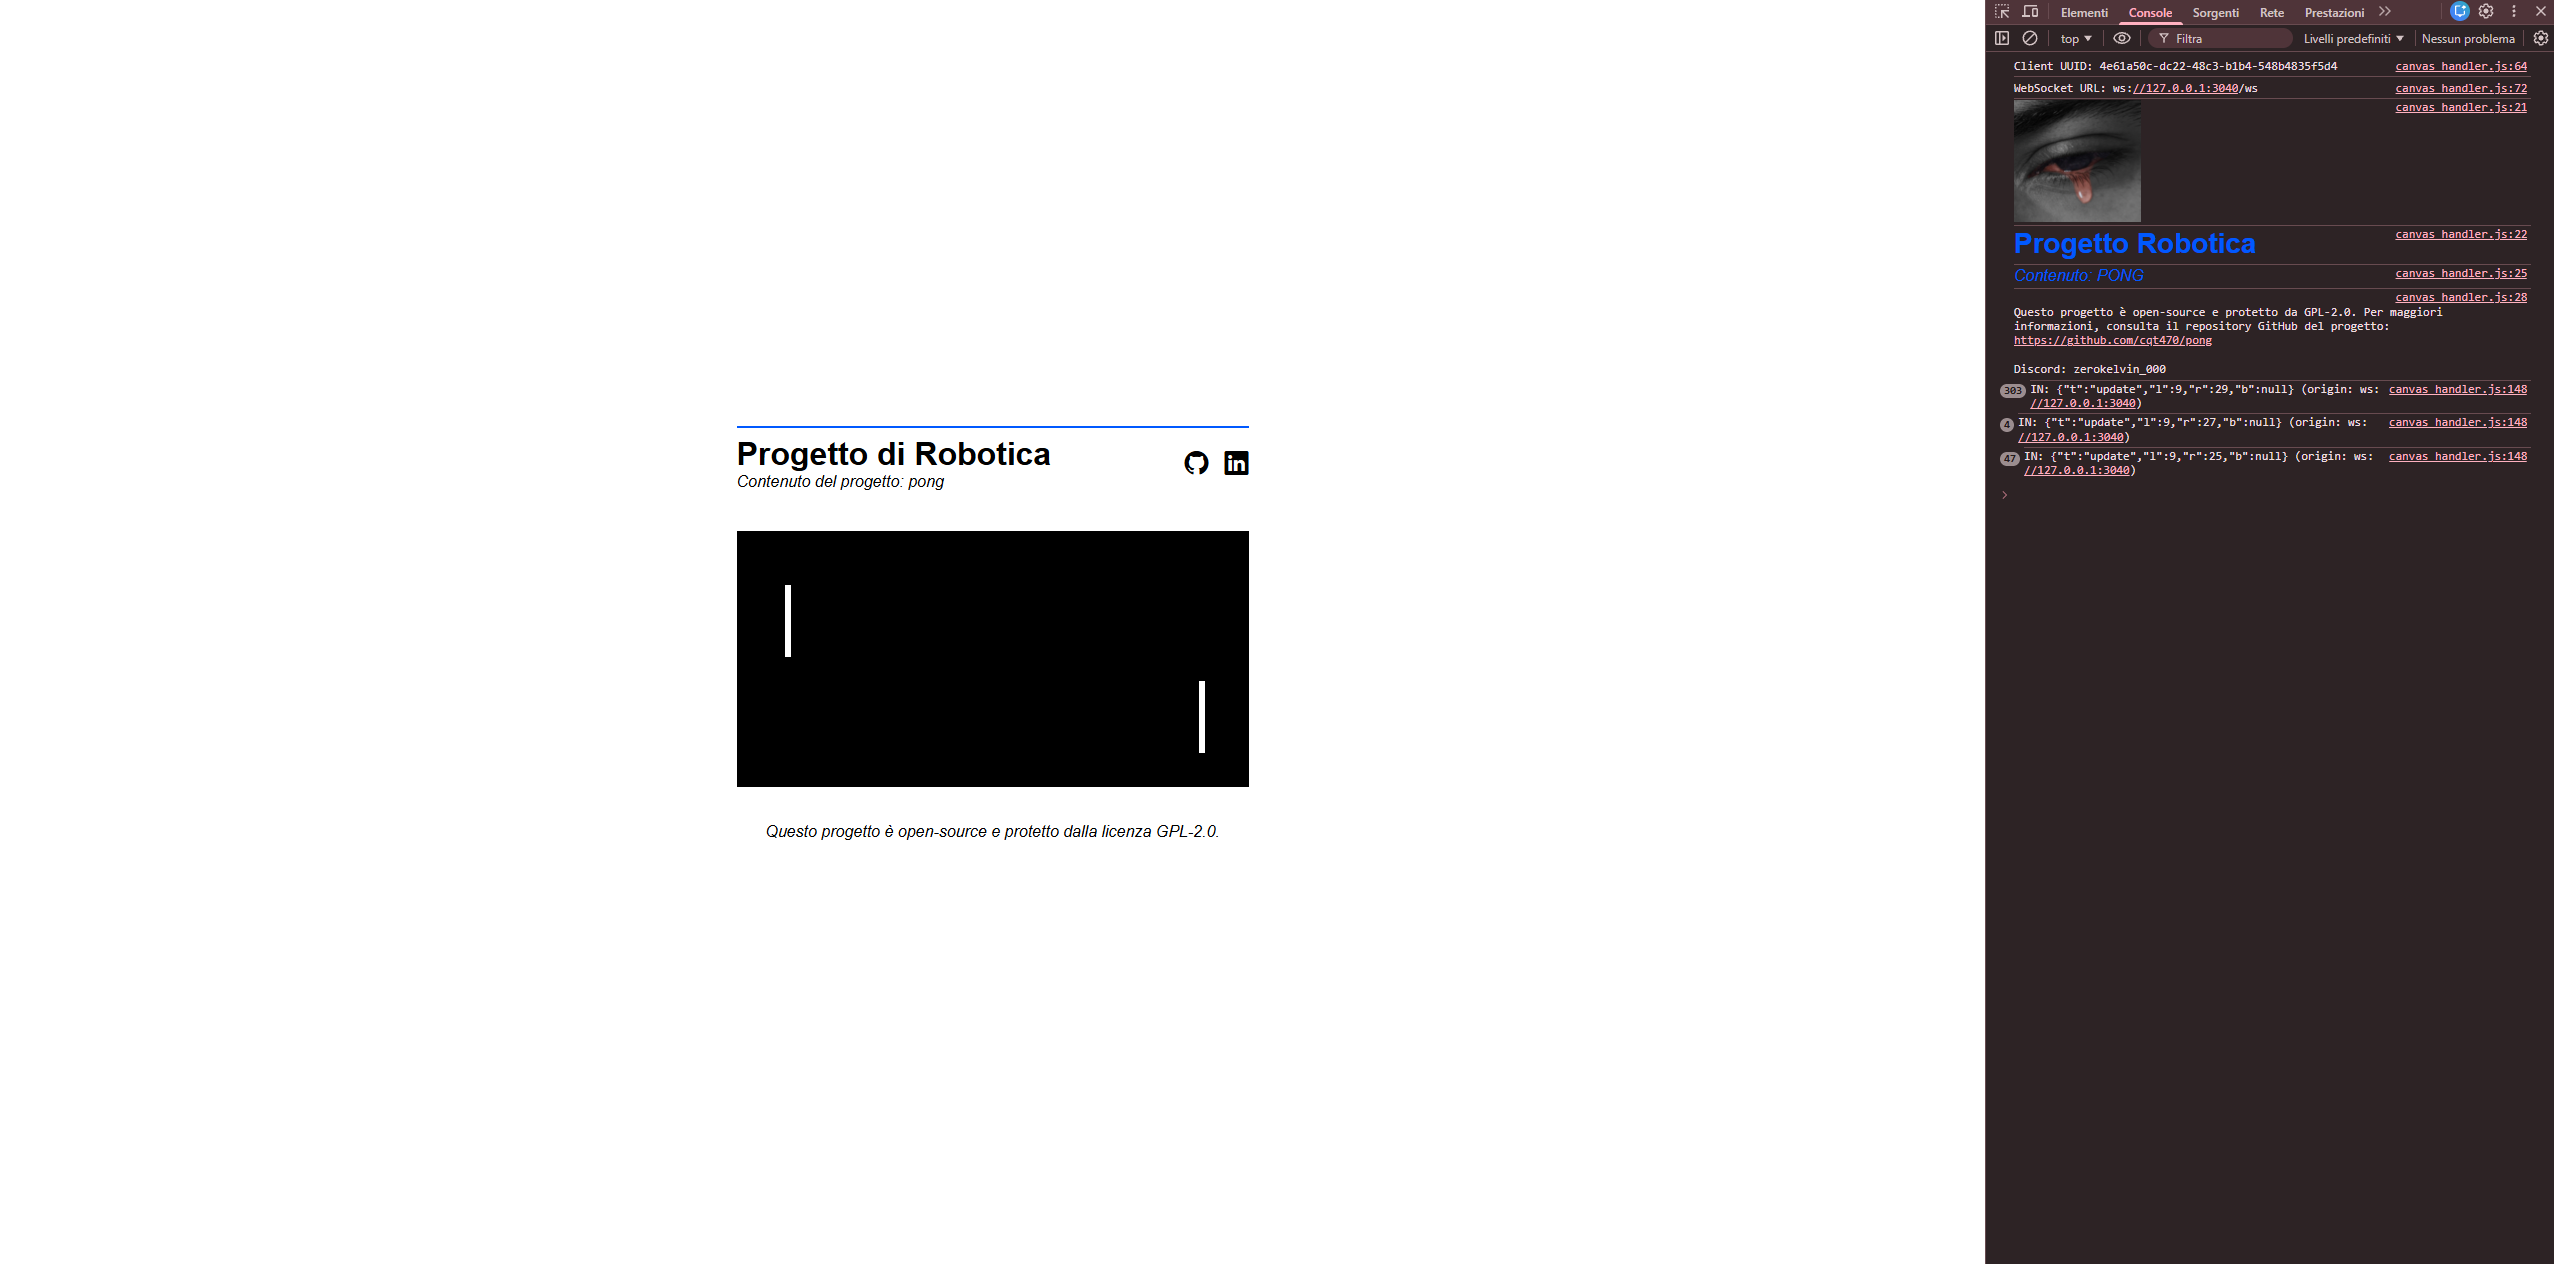
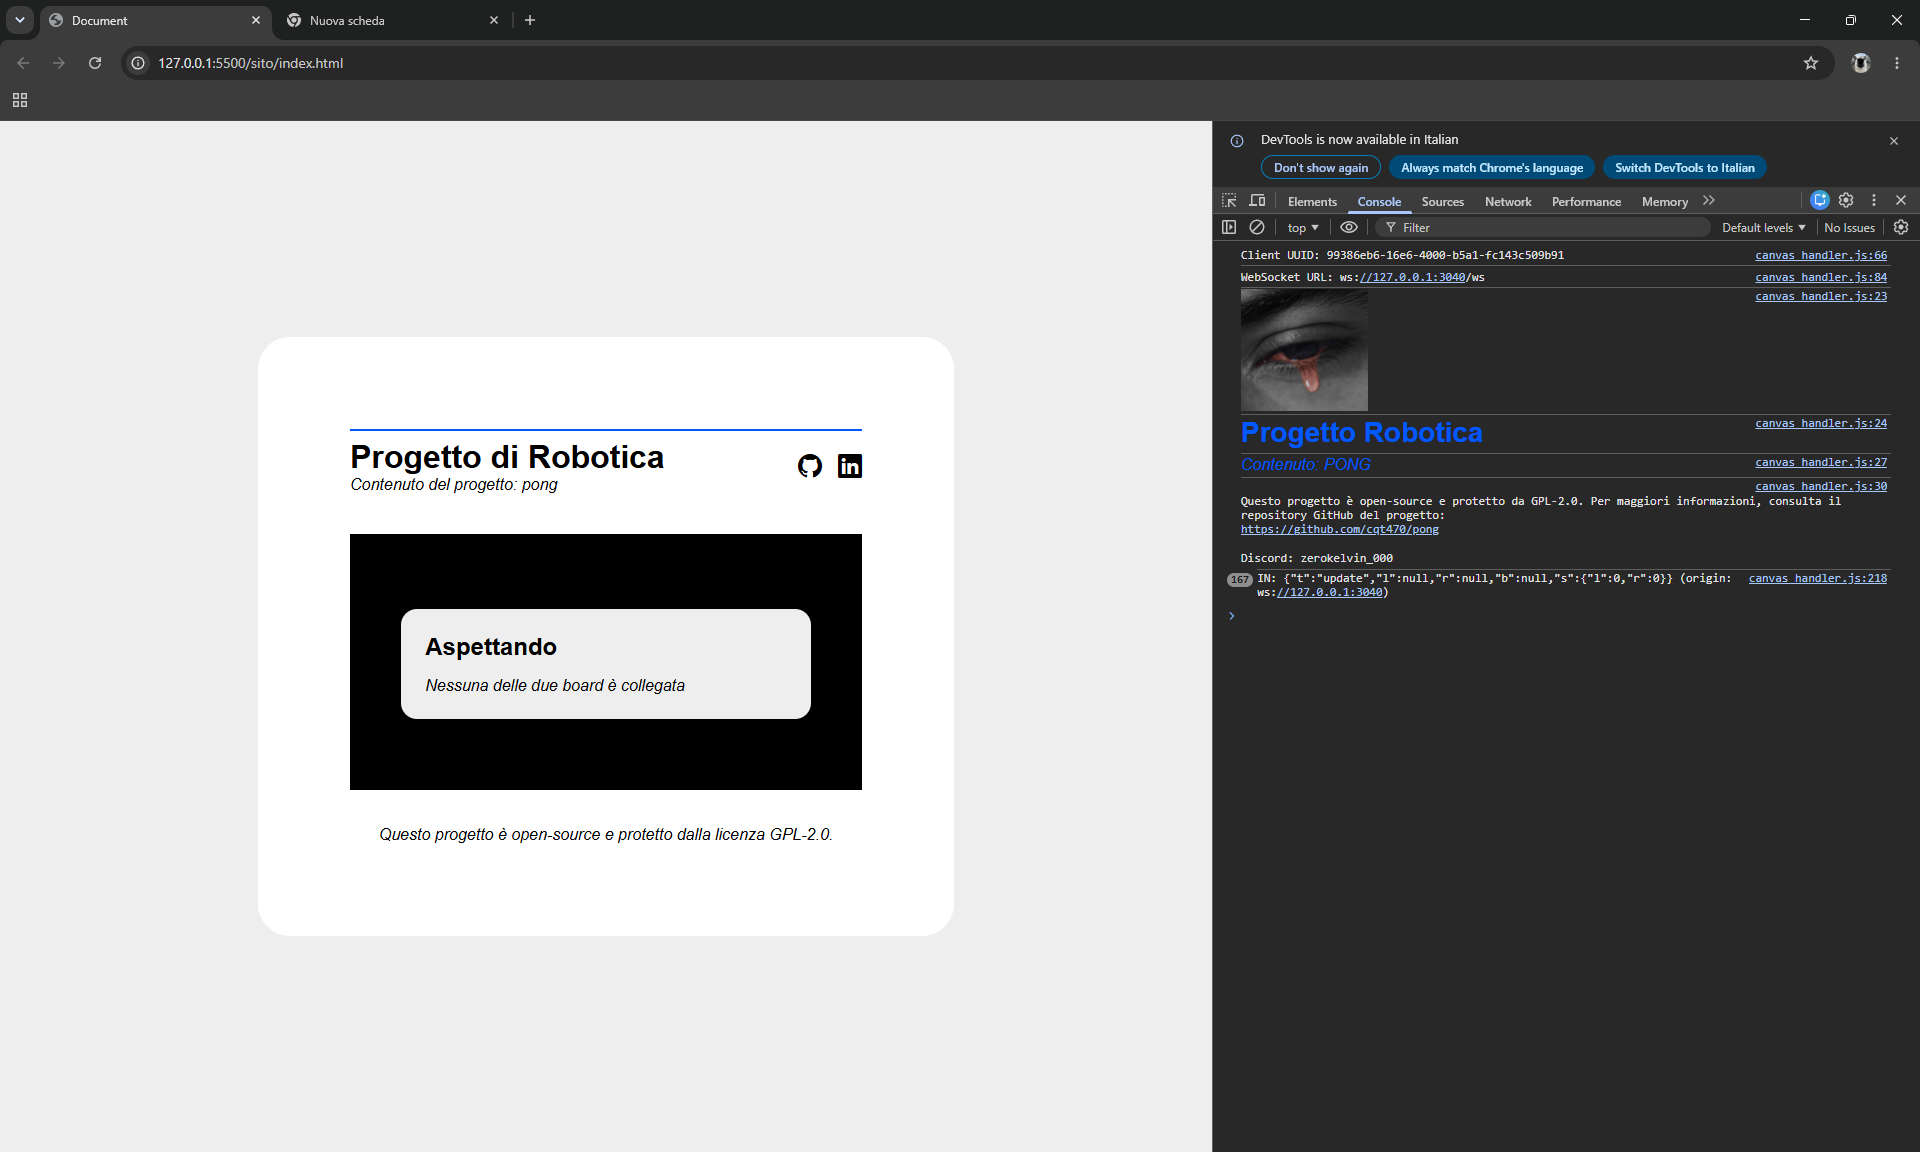
Cambiata immagine di preview

diff --git a/README.md b/README.md
@@ -93,6 +93,6 @@ Notare che il progetto è ancora in `FASE DI SVILUPPO`. Pertanto, non esiste un 
 Questo progetto è distribuito sotto la licenza GPL-2.0. Per maggiori informazioni, contattarmi via email a `questions@zexa.ch` oppure su Discord all'username `zerokelvin-000`.
 
 ## Altro
-Versione: `v0.2-beta`
+Versione: `v0.2-stable`
 
 *Questo è un progetto scolastico e potrebbe smettere di ricevere aggiornamenti in qualsiasi momento.*
